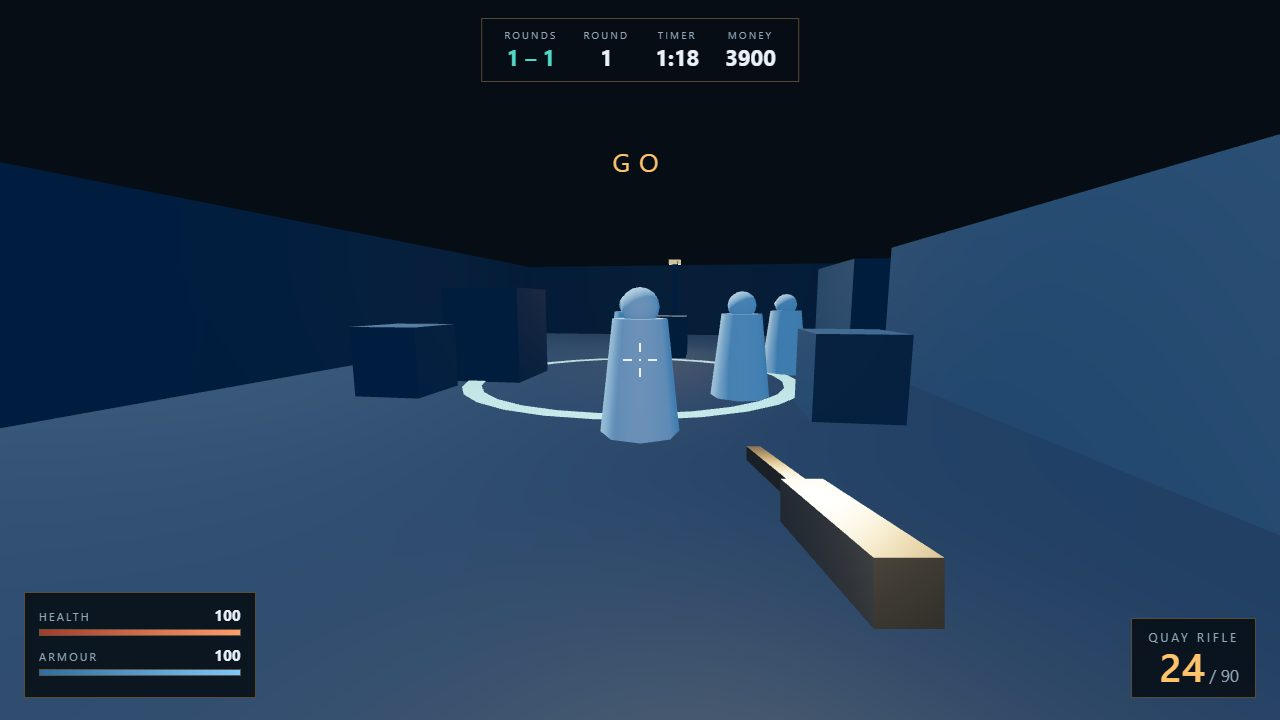
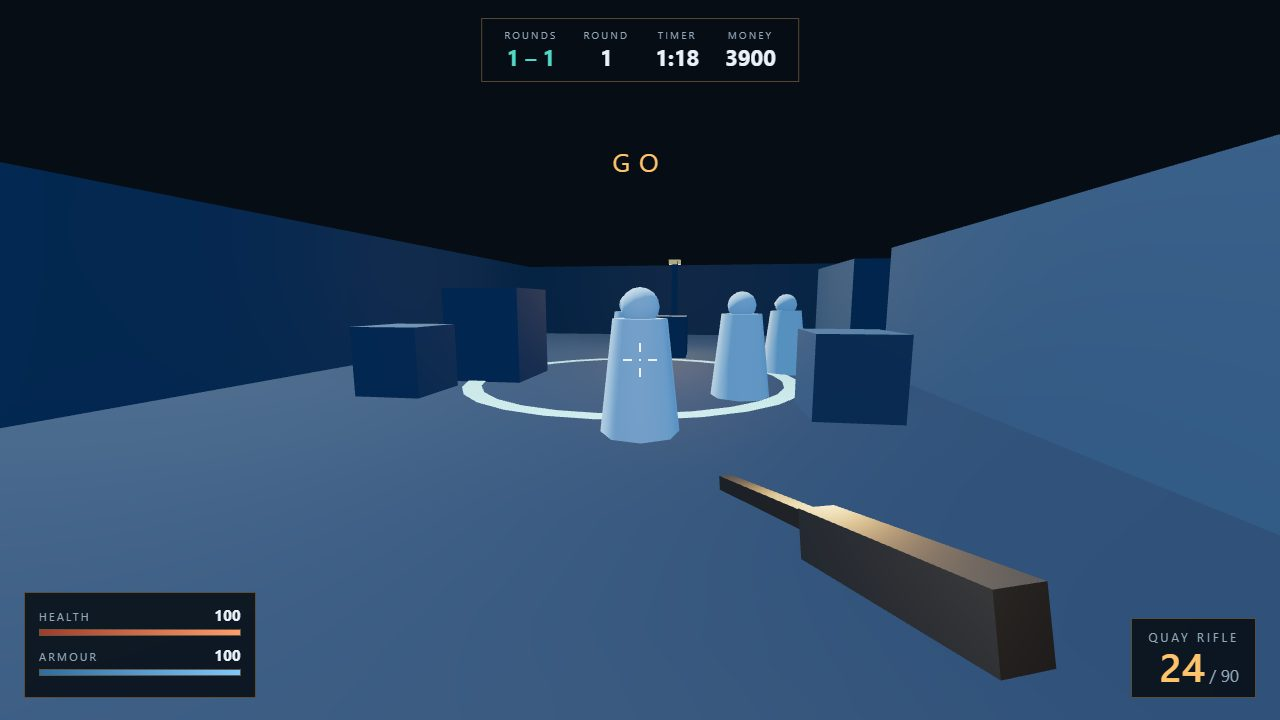
Pier Nine: light the wharf for the judge's contact sheet, and give the viewmodel a weapon's shape

diff --git a/game/src/main.js b/game/src/main.js
@@ -22,13 +22,13 @@ const renderer = new THREE.WebGLRenderer({ canvas, antialias: true, powerPrefere
 renderer.setPixelRatio(1);
 renderer.setSize(window.innerWidth, window.innerHeight, false);
 renderer.toneMapping = THREE.ACESFilmicToneMapping;
-renderer.toneMappingExposure = 2.15;
+renderer.toneMappingExposure = 2.35;
 
 const scene = new THREE.Scene();
 const camera = new THREE.PerspectiveCamera(78, window.innerWidth / window.innerHeight, 0.08, 300);
 scene.add(camera);
 
-const lamp = new THREE.PointLight(0xffe0b0, 1.1, 5, 2.0);
+const lamp = new THREE.PointLight(0xffe0b0, 0.45, 4, 2.0);
 lamp.position.set(0.1, 0.05, -0.2);
 camera.add(lamp);
 
@@ -39,16 +39,16 @@ camera.add(muzzle);
 // A viewmodel only as detailed as it needs to be to read as a weapon in a screenshot.
 const viewmodel = new THREE.Group();
 const gunBody = new THREE.Mesh(
-  new THREE.BoxGeometry(0.12, 0.12, 0.5),
-  new THREE.MeshStandardMaterial({ color: 0x1d2329, roughness: 0.85, metalness: 0.05 }),
+  new THREE.BoxGeometry(0.07, 0.085, 0.34),
+  new THREE.MeshStandardMaterial({ color: 0x171c21, roughness: 0.95, metalness: 0.02 }),
 );
 const gunBarrel = new THREE.Mesh(
-  new THREE.BoxGeometry(0.055, 0.055, 0.42),
-  new THREE.MeshStandardMaterial({ color: 0x14181d, roughness: 0.9, metalness: 0.05 }),
+  new THREE.BoxGeometry(0.035, 0.035, 0.3),
+  new THREE.MeshStandardMaterial({ color: 0x101418, roughness: 0.95, metalness: 0.02 }),
 );
-gunBarrel.position.set(0, 0.02, -0.44);
+gunBarrel.position.set(0, 0.015, -0.3);
 viewmodel.add(gunBody, gunBarrel);
-viewmodel.position.set(0.3, -0.34, -0.7); viewmodel.scale.setScalar(0.66);
+viewmodel.position.set(0.26, -0.3, -0.6); viewmodel.scale.setScalar(0.9); viewmodel.rotation.set(-0.09, 0.22, 0.03);
 camera.add(viewmodel);
 
 const map = buildMap(scene);
@@ -335,7 +335,7 @@ function poseShot() {
     round.toast = '';
     hud.cache.overlay = '';
   }
-  if (shot === 'play') muzzle.intensity = 5;
+  if (shot === 'play') muzzle.intensity = 0.6;
   frozen = true;
 }
 

diff --git a/game/src/map.js b/game/src/map.js
@@ -51,7 +51,7 @@ export function buildMap(scene) {
 
   const crateMaterial = new THREE.MeshStandardMaterial({ color: PALETTE.crate, roughness: 0.82 });
   const trimMaterial = new THREE.MeshStandardMaterial({
-    color: PALETTE.trim, emissive: PALETTE.trim, emissiveIntensity: 0.5, roughness: 0.5,
+    color: PALETTE.trim, emissive: PALETTE.trim, emissiveIntensity: 0.12, roughness: 0.6,
   });
   const unit = new THREE.BoxGeometry(1, 1, 1);
 
@@ -74,7 +74,7 @@ export function buildMap(scene) {
 
   // Site paint: a ring on the deck is the only "plant zone" marker, and it is readable at a glance.
   const siteMaterial = new THREE.MeshStandardMaterial({
-    color: PALETTE.paint, emissive: PALETTE.paint, emissiveIntensity: 0.35, roughness: 0.6,
+    color: PALETTE.paint, emissive: PALETTE.paint, emissiveIntensity: 0.26, roughness: 0.65,
   });
   for (const site of MAP.sites) {
     const ring = new THREE.Mesh(new THREE.RingGeometry(site.radius - 0.35, site.radius, 28), siteMaterial);
@@ -100,16 +100,16 @@ export function buildMap(scene) {
     head.scale.set(0.36, 0.14, 0.36);
     head.position.set(lamp.x, 2.85, lamp.z);
     scene.add(head);
-    const light = new THREE.PointLight(PALETTE.trim, 9, 13, 2);
+    const light = new THREE.PointLight(PALETTE.trim, 17, 15, 2);
     light.position.set(lamp.x, 2.7, lamp.z);
     scene.add(light);
   }
 
-  scene.add(new THREE.AmbientLight(0x44688a, 4.0));
-  const moon = new THREE.DirectionalLight(0xb8d6ef, 2.9);
+  scene.add(new THREE.AmbientLight(0x46688c, 4.3));
+  const moon = new THREE.DirectionalLight(0xc2dcf2, 3.4);
   moon.position.set(-10, 20, -8);
   scene.add(moon);
-  scene.add(new THREE.HemisphereLight(0x2d4f6c, 0x0a1119, 1.2));
+  scene.add(new THREE.HemisphereLight(0x3a6488, 0x0d1822, 2.0));
 
   return {
     walls,

diff --git a/game/index.html b/game/index.html
@@ -60,7 +60,7 @@
   #plant-fill { background: linear-gradient(90deg, #1f6f6a, var(--teal)); }
   .overlay {
     position: fixed; inset: 0; display: none; flex-direction: column; align-items: center; justify-content: center;
-    gap: 18px; text-align: center; background: radial-gradient(circle at 50% 40%, rgba(18,34,48,0.3), rgba(4,9,15,0.76));
+    gap: 18px; text-align: center; background: radial-gradient(circle at 50% 40%, rgba(78,112,140,0.34), rgba(22,38,52,0.68));
   }
   .overlay.on { display: flex; }
   h1 { margin: 0; font-family: Georgia, "Times New Roman", serif; font-size: 84px; letter-spacing: 0.18em; text-transform: uppercase; color: var(--amber); text-shadow: 0 0 42px rgba(255,196,107,0.4); }
